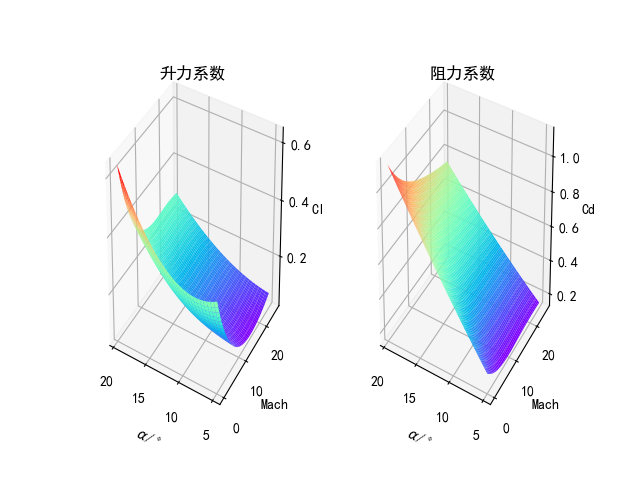
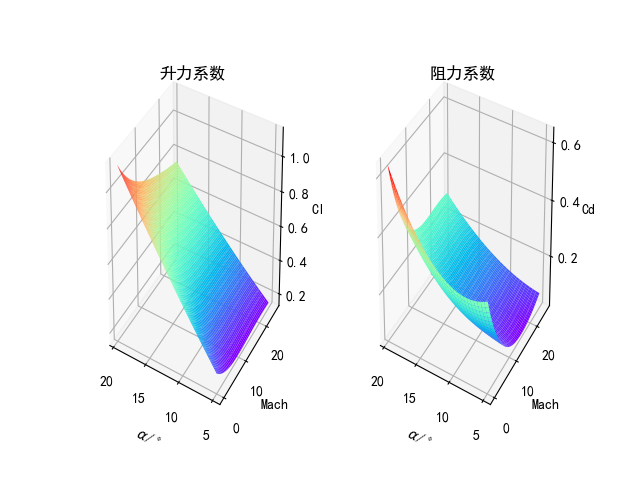
修改模型中升阻比写反的错误

diff --git a/aircraft_obj.py b/aircraft_obj.py
@@ -40,8 +40,8 @@ class CAV:
         # 气动力参数
         cl, cd = self.alphama2clcd(alpha, v / 340)  # 升力阻力系数
         q = 0.5 * rho * v ** 2  # 动压
-        d = q * cl * self.S  # 阻力
-        l = q * cd * self.S  # 升力
+        d = q * cd * self.S  # 阻力
+        l = q * cl * self.S  # 升力
         ny = math.sqrt((p * math.sin(alpha / 57.3) + l) ** 2 +
                        (p * math.cos(alpha / 57.3) - d) ** 2) / (self.m0 * self.g0)  # 过载
 
@@ -225,28 +225,42 @@ class AircraftEnv(CAV):
         v2h_up = interp1d(self.vv, self.h_up, kind='quadratic')
         h_refs = []
         h_cmds = []
+        # 追踪参数
         cmd_p = 0.5
         cmd_i = 0.2
+        lambda_h = 1
         while True:
             v = self.x[3]
-            h_ref = (1 - w) * v2h_down(min(v, self.v0)) + w * v2h_up(min(v, self.v0))   # km
+            h_ref = (1 - w) * v2h_down(min(v, self.v0)) + w * v2h_up(min(v, self.v0))  # m
             if v > 7000:
                 tht = 0
                 h_cmd = h_ref
             else:
                 h_cmd = (1 - cmd_p) * h_cmds[-1] + cmd_p * h_ref + cmd_i * self.delta_t * (h_cmds[-1] - h_refs[-1])
-                h_cmd_dot = (h_cmd-h_cmds[-1])/self.delta_t
-                h_cmd_dot2 = ((h_cmd-h_cmds[-1])-(h_cmds[-1]-h_cmds[-2]))/(self.delta_t)**2
-
+                h_cmd_dot = (h_cmd - h_cmds[-1]) / self.delta_t
+                h_cmd_dot2 = ((h_cmd - h_cmds[-1]) - (h_cmds[-1] - h_cmds[-2])) / (self.delta_t) ** 2
+                # 气动方面计算
                 r = self.x[0]
+                h = h = r - self.R0 * 1000  # 高度
                 theta = self.x[4]
+                g = self.h2g(h)
+                rho = self.h2rho(h)
+                alpha = self.v2alpha(v)
+                cl, cd = self.alphama2clcd(alpha, v / 340)
+                q = 0.5 * rho * v ** 2  # 动压
+                l = q * cl * self.S  # 升力
+                d = q * cd * self.S  # 阻力
+                # 计算各导数
+                v_dot = - d / self.m0 - g * math.sin(theta)
+                h_dot = v * math.sin(theta)
+                delta_h = h - h_cmd
+                delta_h_dot = h_dot - h_cmd_dot
+                h_dot2 = h_cmd_dot2 - 2 * delta_h_dot * lambda_h - lambda_h ** 2
 
-                h_dot = v*math.sin(theta)
-
-
-
-                tht = self.v2tht(h * 1000, v) / math.pi * 180
-
+                cos_tht = ((h_dot2 - v_dot * math.sin(theta)) / math.cos(theta) +
+                           (g - v ** 2 / r) * math.cos(theta)) * self.m0 / l
+                cos_tht = cos_tht if (-1 <= cos_tht <= 1) else (1 if cos_tht > 1 else -1)
+                tht = math.acos(cos_tht if math.fabs(cos_tht) <= 1 else 1)  # 弧度
             h_refs.append(h_ref)
             h_cmds.append(h_cmd)
             state_now, reward, done, info = self.step(tht)
@@ -258,7 +272,6 @@ class AircraftEnv(CAV):
     def h2tht(self):
         # 设计倾侧角来跟踪高度
         pass
-
 
     def hv2tht(self, h, v):
         # h 单位m，v单位m/s
@@ -342,8 +355,9 @@ class AircraftEnv(CAV):
         # 画图
         fig_HV = plt.figure()
         ax = fig_HV.add_subplot(111)
-        plt.plot(v, h_qegc1/1000, v, h_qegc2/1000, '--', v, h_qmax1/1000, v, h_qmax2/1000, '-.', v, h_Qmax1/1000,
-                 v, h_Qmax2/1000, ':', v, h_nmax1/1000, v, h_nmax2/1000, ':')
+        plt.plot(v, h_qegc1 / 1000, v, h_qegc2 / 1000, '--', v, h_qmax1 / 1000, v, h_qmax2 / 1000, '-.', v,
+                 h_Qmax1 / 1000,
+                 v, h_Qmax2 / 1000, ':', v, h_nmax1 / 1000, v, h_nmax2 / 1000, ':')
         plt.annotate('$Q_{max} = %s Kw/m^2$' % (Q_maxs[0]), (2503, -3.7), (2892, -7),  # 文字，图像中的坐标，文字的坐标
                      arrowprops=dict(arrowstyle="->", connectionstyle="arc3"))
         plt.annotate('$Q_{max} = %s Kw/m^2$' % (Q_maxs[1]), (2293, -9), (2792, -14.3),
@@ -358,7 +372,7 @@ class AircraftEnv(CAV):
                      arrowprops=dict(arrowstyle="->", connectionstyle="arc3"))
         plt.annotate('$tht = %s^\circ$' % (thts[0]), (4519, 43.4), (4185, 55),
                      arrowprops=dict(arrowstyle="->", connectionstyle="arc3"))
-        plt.annotate('$tht = %.2s^\circ $' % (thts[1] *57.3), (3850, 36), (3900, 50),
+        plt.annotate('$tht = %.2s^\circ $' % (thts[1] * 57.3), (3850, 36), (3900, 50),
                      arrowprops=dict(arrowstyle="->", connectionstyle="arc3"))
         ax.set_xlabel(r'v(m/s)')
         ax.set_ylabel(r'h(km)')
@@ -390,7 +404,7 @@ class AircraftEnv(CAV):
         t = np.arange(0, len(data), 1) * self.delta_t  # 时间
         fig = plt.figure()
         # plt.plot(t, data[:, 3])
-        # plt.plot(self.vv, self.h_up, self.vv, self.h_down)
+        plt.plot(self.vv, self.h_up / 1000, self.vv, self.h_down / 1000)
         plt.plot(data[:, 3], data[:, 0] / 1000 - self.R0)
         plt.grid()
 
@@ -401,4 +415,4 @@ if __name__ == '__main__':
     cav.h_v()  # 进行HV走廊敏感性分析
     plt.show()
     # TODO 保存轨迹并进行神经网络构建
-    # TODO
+    # TODO 倾侧角跟踪

diff --git a/clcd_plot.py b/clcd_plot.py
@@ -47,7 +47,7 @@ def plot_craft(object):
     ax.set_zlabel(r'Cl')
     ax.set_xlabel(r'$\alpha$/$^\circ$')
     ax.invert_xaxis()  # 将x轴方向反转
-    ax.plot_surface(alphas, mas, cds, rstride=1, cstride=1, cmap='rainbow')
+    ax.plot_surface(alphas, mas, cls, rstride=1, cstride=1, cmap='rainbow')
 
     ax = fig.add_subplot(122, projection='3d')
     ax.set_title(u'阻力系数')
@@ -55,7 +55,7 @@ def plot_craft(object):
     ax.set_ylabel(r'Mach')
     ax.set_zlabel(r'Cd')
     ax.set_xlabel(r'$\alpha$/$^\circ$')
-    ax.plot_surface(alphas, mas, cls, rstride=1, cstride=1, cmap='rainbow')
+    ax.plot_surface(alphas, mas, cds, rstride=1, cstride=1, cmap='rainbow')
     plt.savefig(os.path.join('Figures', '低升阻比升力阻力.png'))
 
     fig = plt.figure()
